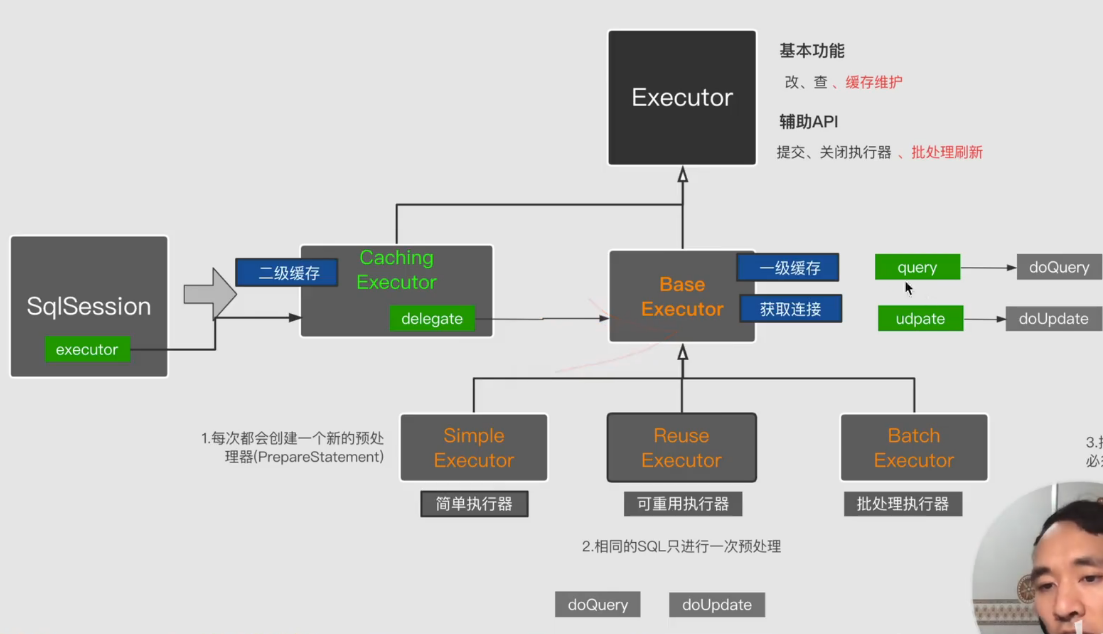
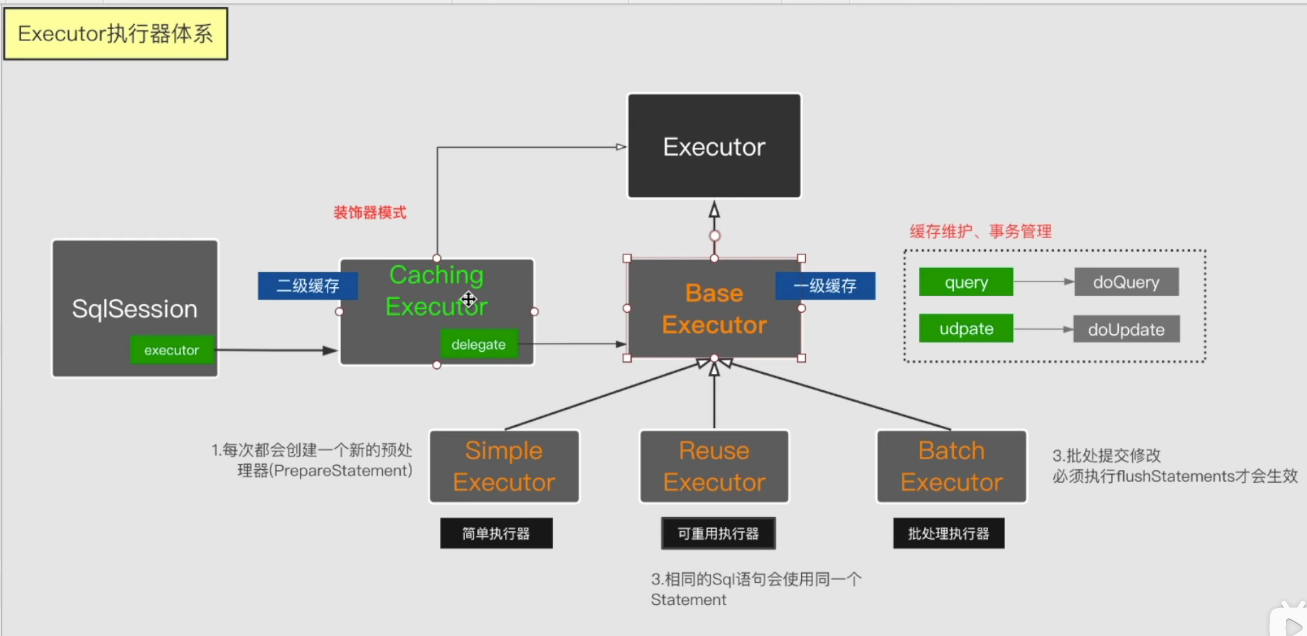
二级缓存

Changed region(s): [[0.0, 0.03, 1.0, 1.0], [0.0, 0.0, 0.185, 0.1199], [0.4932, 0.8991, 0.709, 0.989]]

diff --git a/mybatis/src/test/java/com/lga/mybatis/dao/FirstCacheTest.java b/mybatis/src/test/java/com/lga/mybatis/dao/FirstCacheTest.java
@@ -1,0 +1,50 @@
+package com.lga.mybatis.dao;
+
+import com.lga.mybatis.vo.User;
+import org.apache.ibatis.io.Resources;
+import org.apache.ibatis.session.SqlSession;
+import org.apache.ibatis.session.SqlSessionFactory;
+import org.apache.ibatis.session.SqlSessionFactoryBuilder;
+import org.junit.Before;
+import org.junit.Test;
+
+import java.io.IOException;
+
+/**
+ * 一级缓存测试
+ */
+public class FirstCacheTest {
+
+    private SqlSession sqlSession;
+
+    @Before
+    public void init() {
+        SqlSessionFactoryBuilder sqlSessionFactoryBuilder = new SqlSessionFactoryBuilder();
+        try {
+            SqlSessionFactory sqlSessionFactory = sqlSessionFactoryBuilder.build(Resources.getResourceAsReader("configuration.xml"));
+            sqlSession = sqlSessionFactory.openSession();
+        } catch (IOException e) {
+            e.printStackTrace();
+        }
+    }
+
+    /**
+     * 一级缓存的有效条件
+     * 1：sql和参数必须相同
+     * 2：statementId必须相同
+     * 3：sqlSession必须一样（作用域:会话级别的缓存）
+     * 4：rowbound 返回行范围必须相同
+     */
+    @Test
+    public void test1() {
+
+        UserDao userDao = sqlSession.getMapper(UserDao.class);
+        User user1 = userDao.findUserById(1);
+        sqlSession.clearCache();
+        User user2 = userDao.findUserById(1);
+
+        System.out.println(user1 == user2);
+
+
+    }
+}

diff --git a/mybatis/src/main/java/com/lga/mybatis/vo/User.java b/mybatis/src/main/java/com/lga/mybatis/vo/User.java
@@ -2,8 +2,10 @@ package com.lga.mybatis.vo;
 
 import lombok.Data;
 
+import java.io.Serializable;
+
 @Data
-public class User {
+public class User implements Serializable {
 
     private int id;
     private String name;

diff --git a/mybatis/README.md b/mybatis/README.md
@@ -36,8 +36,33 @@
 
 
 ## 一级缓存
+>一级缓存默认是打开的
+> 
+
+### 命中场景条件
+![img4.png](./img/img_4.png)
+
+### 一级缓存执行流程
+![img_7.png](./img/img_7.png)
+
+### 面试可能遇到的问题
+- spring 继承mybatis 一级缓存失效
+> spring中的myabtis每次执行的时候，都会创建一个新的会话。
+> 
+> 如何处理：方到同一个事物里
+### 使用场景
 
 ## 二级缓存
 
+### 缓存结构
+![img_8.png](./img/img_8.png)
+
+
+### 缓存命中条件
+![img_9.png](./img/img_9.png)
+
+
+### 二级缓存执行流程
+![img_11.png](./img/img_11.png)
 
 
